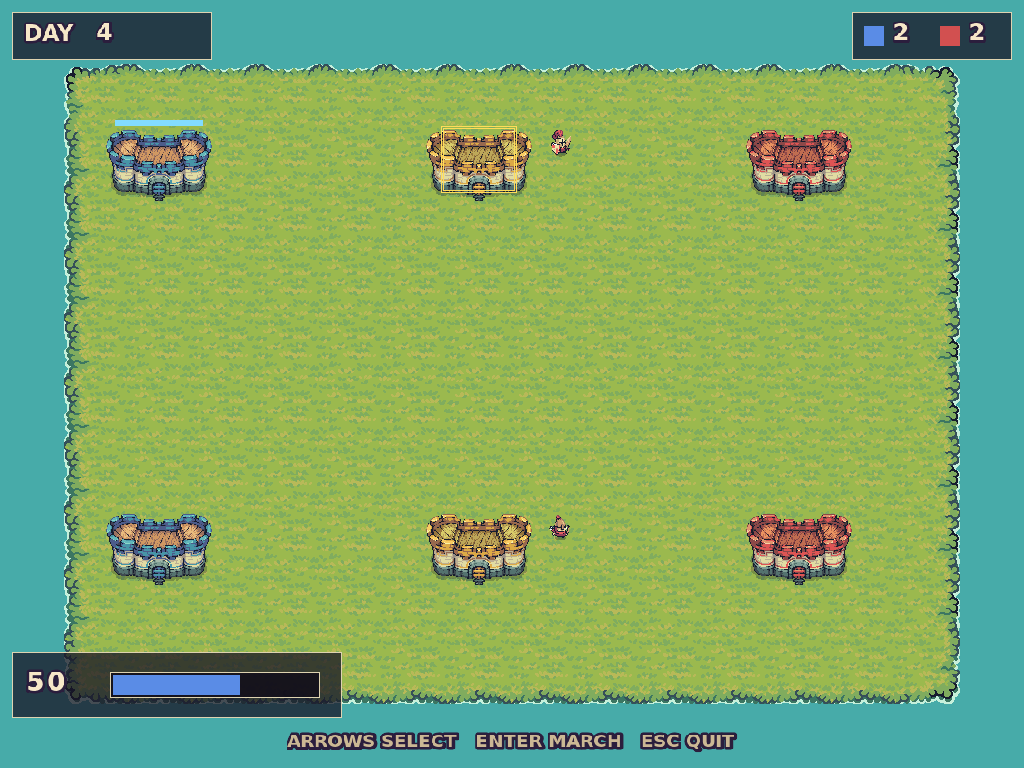
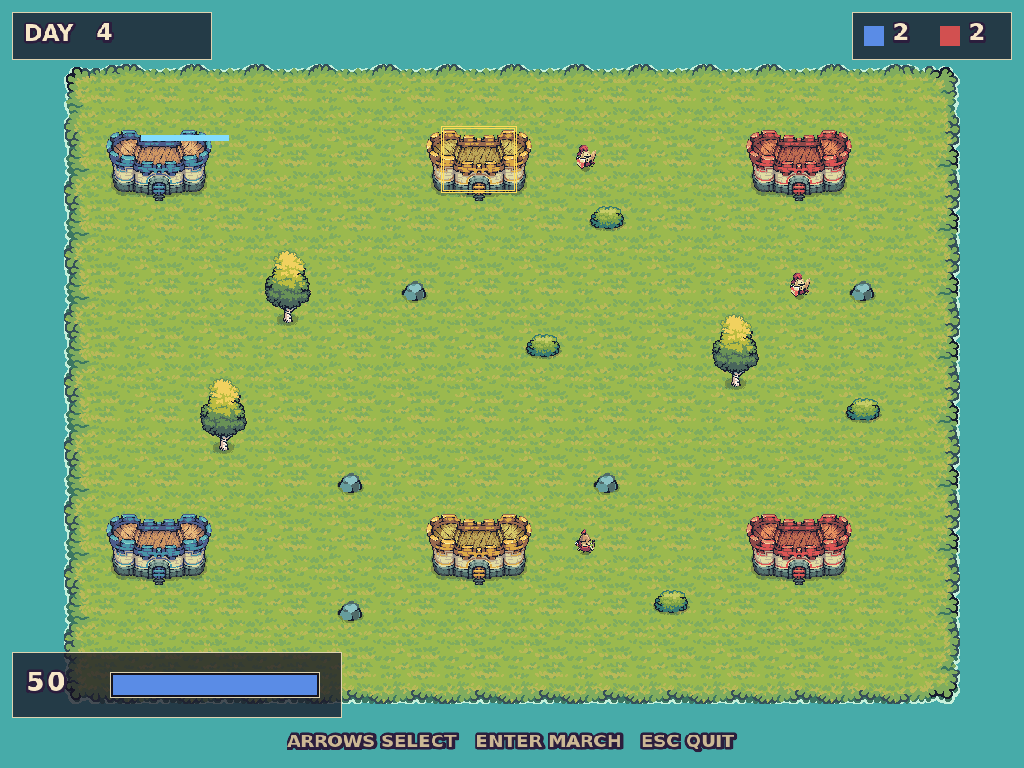
Scatter scenery across the strategy example's map
The campaign map was a flat green field. Adds trees, bushes and rocks from Tiny
Swords' decoration set, placed by SpawnDecorations at state entry.

Placement is a fixed-seed LCG rather than rand(), so the map is identical on
every run -- scenery that moves between runs makes a visual regression
impossible to spot in a screenshot. It is generated rather than authored as a
table so that moving a castle re-flows the scenery around it instead of leaving
a tree standing in the courtyard.

Three keep-out rules, because the first attempt looked like an orchard: a radius
around each castle centre, a radius around each road (the straight segments army
markers lerp along, so scenery never sits under a marching army), and a radius
between decorations themselves. Trees are capped at three -- they are by far the
loudest thing on an otherwise flat map, and left to the dice roughly a third of
sixteen decorations came up trees, all clustered in the one band the other
keep-outs left open.

The attempt loop is bounded rather than looping until the target count is met:
with every keep-out applied there may simply be no room left. It logs how many
it actually placed, which on the shipped map is 12 of 16 -- a silent shortfall
would read as "placed them all".

Draw order is now a named enum. RenderSystem sorts on zIndex and the sort is not
stable, so anything that can overlap needs its own layer: water, ground, scrub,
trees, castles, armies. Trees sit under the castles and the army markers so
[…]

diff --git a/examples/strategy/src/states/overworldState.cpp b/examples/strategy/src/states/overworldState.cpp
@@ -28,6 +28,39 @@ constexpr int   kCastleH     = 256;
 constexpr float kArmyScale = 0.30f;
 constexpr int   kUnitFrame = 192;
 
+// Draw order. Explicit constants rather than literals scattered through the
+// spawners: RenderSystem sorts on these, and two things sharing a zIndex sort
+// against each other unpredictably (the sort is not stable), so every layer
+// that can overlap another needs its own number.
+enum ZIndex {
+    kZWater  = 0,
+    kZGround = 1,
+    kZScrub  = 2,   // rocks and bushes, flat on the ground
+    kZTree   = 3,   // tall, but still under anything the player must see
+    kZCastle = 4,
+    kZArmy   = 5,
+};
+
+// Decoration keep-out. Nothing is placed within kClearCastle of a castle centre
+// or kClearRoad of a road, so scenery never sits under a castle sprite or under
+// a marching army -- the marker lerps straight between castle centres, so the
+// roads are exactly those segments.
+constexpr float kClearCastle = 116.0f;
+constexpr float kClearRoad   = 46.0f;
+constexpr float kClearDeco   = 92.0f;   // scenery to scenery
+
+// Distance from point p to segment ab. Used for the road keep-out.
+float DistanceToSegment(glm::vec2 p, glm::vec2 a, glm::vec2 b) {
+    const glm::vec2 ab = b - a;
+    const float len2 = ab.x * ab.x + ab.y * ab.y;
+    if (len2 <= 0.0001f) {
+        return glm::length(p - a);
+    }
+    float t = ((p.x - a.x) * ab.x + (p.y - a.y) * ab.y) / len2;
+    t = std::min(std::max(t, 0.0f), 1.0f);
+    return glm::length(p - (a + ab * t));
+}
+
 const char *CastleAsset(world::Owner o) {
     switch (o) {
     case world::Owner::Blue: return "castle_blue";
@@ -70,6 +103,7 @@ bool OverworldState::onEnter() {
     registry_.AddSystem<AnimationSystem>();
 
     SpawnTerrain();
+    SpawnDecorations();
     SpawnCastles();
 
     // Entity creation is deferred until Registry::Update(). Without this flush
@@ -109,7 +143,7 @@ void OverworldState::SpawnTerrain() {
             Entity water = registry_.CreateEntity();
             water.AddComponent<TransformComponent>(
                 glm::vec2(x * TILE, y * TILE), glm::vec2(1.0f, 1.0f), 0.0);
-            water.AddComponent<SpriteComponent>("water", 64, 64, /*zIndex=*/0,
+            water.AddComponent<SpriteComponent>("water", 64, 64, kZWater,
                                                 false, 0, 0);
         }
     }
@@ -120,10 +154,124 @@ void OverworldState::SpawnTerrain() {
             glm::vec2(tile.relativePosition.x * TILE,
                       tile.relativePosition.y * TILE),
             glm::vec2(1.0f, 1.0f), 0.0);
-        e.AddComponent<SpriteComponent>("tilemap", TILE, TILE, /*zIndex=*/1,
+        e.AddComponent<SpriteComponent>("tilemap", TILE, TILE, kZGround,
                                         false, tile.pixelSrcPosition.x,
                                         tile.pixelSrcPosition.y);
     }
+}
+
+// Scatters trees, bushes and rocks over the open ground.
+//
+// Deterministic on purpose. The placement comes from a fixed-seed LCG rather
+// than rand(), so the map looks the same on every run and in every screenshot;
+// a decoration that wanders between runs makes any visual regression
+// impossible to spot. It is also seeded here rather than authored as a table so
+// that moving a castle re-flows the scenery around it instead of leaving a tree
+// standing in the courtyard.
+void OverworldState::SpawnDecorations() {
+    struct Kind {
+        const char *asset;
+        int   frame;     // source frame size, square
+        int   frames;    // 1 = static
+        float scale;
+        int   zIndex;
+    };
+    // Tree3.png is 1536x192 (8 frames of 192), Bushe1.png is 1024x128 (8 frames
+    // of 128), Rock1.png is a single 64x64 tile.
+    static const Kind kKinds[] = {
+        {"tree", 192, 8, 0.52f, kZTree},
+        {"bush", 128, 8, 0.55f, kZScrub},
+        {"rock",  64, 1, 0.85f, kZScrub},
+    };
+
+    // Castle centres, and the road segments armies actually travel.
+    glm::vec2 centres[world::kCastleCount];
+    for (int i = 0; i < world::kCastleCount; ++i) {
+        centres[i] = CastlePixel(i) + glm::vec2(kCastleW * kCastleScale / 2.0f,
+                                                kCastleH * kCastleScale / 2.0f);
+    }
+
+    // Numerical Recipes' LCG constants; any decent pair would do. The seed is
+    // arbitrary but fixed.
+    Uint32 rng = 0x5eed1234u;
+    auto next = [&rng]() {
+        rng = rng * 1664525u + 1013904223u;
+        return rng >> 16;   // high bits: the low ones cycle far too regularly
+    };
+
+    int placed = 0;
+    int trees  = 0;
+    std::vector<glm::vec2> taken;
+
+    // Bounded attempts, not "loop until placed": with a full keep-out set there
+    // may simply be no room left, and a while-until-N loop would spin forever.
+    for (int attempt = 0; attempt < 400 && placed < DECO_COUNT; ++attempt) {
+        // Inside the coastline: the outer ring of land carries the shoreline
+        // tiles, and a tree half-off the beach reads as a mistake.
+        const int tx = 2 + static_cast<int>(next() % (MAP_W - 4));
+        const int ty = 2 + static_cast<int>(next() % (MAP_H - 4));
+        const glm::vec2 centre((tx + 0.5f) * TILE, (ty + 0.5f) * TILE);
+
+        bool blocked = false;
+        for (int i = 0; i < world::kCastleCount && !blocked; ++i) {
+            if (glm::length(centre - centres[i]) < kClearCastle) {
+                blocked = true;
+            }
+            for (int j = i + 1; j < world::kCastleCount && !blocked; ++j) {
+                if (campaign_->Adjacent(i, j) &&
+                    DistanceToSegment(centre, centres[i], centres[j]) <
+                        kClearRoad) {
+                    blocked = true;
+                }
+            }
+        }
+        // Keep scenery off other scenery. The keep-outs above leave only the
+        // band between the castle rows genuinely open, so without a spacing
+        // rule everything lands in the middle and reads as an orchard rather
+        // than as countryside.
+        for (const auto &t : taken) {
+            if (glm::length(centre - t) < kClearDeco) {
+                blocked = true;
+                break;
+            }
+        }
+        if (blocked) {
+            continue;
+        }
+
+        // Trees are the loudest thing on an otherwise flat map, so they are
+        // capped rather than left to the dice; past the cap this rolls scrub
+        // only. Index 0 is the tree, 1 and 2 are the bush and the rock.
+        const int pick = (trees >= MAX_TREES) ? 1 + static_cast<int>(next() % 2)
+                                              : static_cast<int>(next() % 3);
+        const Kind &k = kKinds[pick];
+        if (pick == 0) {
+            ++trees;
+        }
+        const float drawn = k.frame * k.scale;
+
+        Entity e = registry_.CreateEntity();
+        e.AddComponent<TransformComponent>(
+            centre - glm::vec2(drawn / 2.0f), glm::vec2(k.scale, k.scale), 0.0);
+        e.AddComponent<SpriteComponent>(k.asset, k.frame, k.frame, k.zIndex,
+                                        false, 0, 0);
+        if (k.frames > 1) {
+            e.AddComponent<AnimationComponent>(k.frames, 6, /*vertical=*/false,
+                                               /*isLooped=*/true);
+            // Stagger the phase. AnimationComponent stamps startTime in its
+            // constructor, so everything spawned in this one frame would
+            // otherwise sway in perfect unison, which reads as a glitch rather
+            // than as wind.
+            if (auto *anim = e.TryGetComponent<AnimationComponent>()) {
+                anim->startTime -= next() % 2000;
+            }
+        }
+        taken.push_back(centre);
+        ++placed;
+    }
+
+    logger_.Log("Scattered " + std::to_string(placed) + " decorations (" +
+                std::to_string(trees) + " trees)");
 }
 
 glm::vec2 OverworldState::CastlePixel(int castle) const {
@@ -139,7 +287,7 @@ void OverworldState::SpawnCastles() {
         e.AddComponent<TransformComponent>(
             CastlePixel(i), glm::vec2(kCastleScale, kCastleScale), 0.0);
         e.AddComponent<SpriteComponent>(CastleAsset(campaign_->castles[i].owner),
-                                        kCastleW, kCastleH, /*zIndex=*/2, false,
+                                        kCastleW, kCastleH, kZCastle, false,
                                         0, 0);
         castleEntities_[i] = e;
     }
@@ -199,7 +347,7 @@ void OverworldState::SyncArmyMarkers() {
                 GeneralPixel(i), glm::vec2(kArmyScale, kArmyScale), 0.0);
             e.AddComponent<SpriteComponent>(RunAsset(g.side, g.troop),
                                             kUnitFrame, kUnitFrame,
-                                            /*zIndex=*/3, false, 0, 0);
+                                            kZArmy, false, 0, 0);
             e.AddComponent<AnimationComponent>(RunFrames(g.troop), 10,
                                                /*vertical=*/false,
                                                /*isLooped=*/true);

diff --git a/examples/strategy/src/states/overworldState.h b/examples/strategy/src/states/overworldState.h
@@ -42,6 +42,8 @@ private:
     static constexpr int MAP_W     = 16;
     static constexpr int MAP_H     = 12;
     static constexpr int MARCH_DAYS = 3;
+    static constexpr int DECO_COUNT = 16;   // trees, bushes and rocks
+    static constexpr int MAX_TREES  = 3;    // trees dominate; keep them rare
     static constexpr Uint32 DAY_MS = 1400;   // one day per 1.4s
 
     // Most real time a single frame may contribute to the day timer. Without a
@@ -50,6 +52,7 @@ private:
     static constexpr Uint32 MAX_DELTA_MS = 100;
 
     void SpawnTerrain();
+    void SpawnDecorations();
     void SpawnCastles();
     void RefreshCastleSprite(int castle);
     void SyncArmyMarkers();

diff --git a/examples/strategy/src/game.cpp b/examples/strategy/src/game.cpp
@@ -71,6 +71,11 @@ bool Game::LoadAssets() {
         {"tilemap", "./assets/gfx/terrain/tilemap.png"},
         {"water",   "./assets/gfx/terrain/water.png"},
 
+        // Scenery. Tree and bush are animated strips; rock is a single tile.
+        {"tree", "./assets/gfx/deco/tree.png"},
+        {"bush", "./assets/gfx/deco/bush.png"},
+        {"rock", "./assets/gfx/deco/rock.png"},
+
         {"explosion", "./assets/gfx/fx/explosion.png"},
 
 

diff --git a/examples/strategy/README.md b/examples/strategy/README.md
@@ -73,6 +73,7 @@ strong but only for archers, and **retreat** concedes the castle immediately.
 | **Draw-time scaling** | `RenderSystem` computes `dstRect` as `sprite.width * transform.scale.x`, so a 192x192 frame at `scale 0.55` draws at ~106px. The PNGs are never resized. |
 | **One-shot animations must self-cull** | `AnimationSystem` clamps a non-looping animation to `numFrames - 1` and leaves the entity alone. Testing `currentFrame >= numFrames` therefore **never** fires; `battleState.cpp` tests `>= numFrames - 1` and kills the entity itself. Getting this wrong leaks an entity per hit for the whole battle. |
 | **Popping the last state** | An empty state machine is not an exit. `Game::Run` keeps looping on `isRunning_` while `processInput`/`update`/`render` all return immediately, so nothing calls `SDL_PollEvent` — the window stops responding and the process spins at 100% CPU, unkillable by anything short of `SIGKILL`. `BattleState` checks the stack depth before popping, which matters only for `./bin/realms battle`. |
+| **Deterministic scatter** | `SpawnDecorations` places scenery from a fixed-seed LCG, not `rand()`, so the map is identical on every run — decorations that wander make a visual regression impossible to spot. Keep-out radii around the castles and around the road segments (the straight lines army markers lerp along) mean moving a castle re-flows the scenery instead of leaving a tree in the courtyard. It logs how many it actually placed, which is usually fewer than asked for. |
 | **Hand-rolled AABB, again** | `CollisionSystem` is deliberately not registered. It kills *both* entities on contact, which is wrong for everything here. |
 | **Immediate-mode HUD** | `ui.h`. Bars are drawn as rects rather than blitted: Tiny Swords' `SmallBar_Base` is a three-slice asset with gaps inside one image, so stretching it as a single texture produces a broken bar. |
 

diff --git a/examples/strategy/assets/README.md b/examples/strategy/assets/README.md
@@ -27,7 +27,7 @@ artist gets the traffic — which is the right outcome for work this good.
    what the game loads; the paths on the left are where they sit in the
    download.
 
-This is the complete list — the game loads exactly these eleven files and
+This is the complete list — the game loads exactly these fourteen files and
 nothing else.
 
 ```
@@ -46,6 +46,10 @@ Buildings/Yellow Buildings/Castle.png        ->  gfx/buildings/neutral/Castle.pn
 
 Terrain/Tileset/Tilemap_color1.png           ->  gfx/terrain/tilemap.png
 Terrain/Tileset/Water Background color.png   ->  gfx/terrain/water.png
+
+Terrain/Resources/Wood/Trees/Tree3.png       ->  gfx/deco/tree.png
+Terrain/Decorations/Bushes/Bushe1.png        ->  gfx/deco/bush.png
+Terrain/Decorations/Rocks/Rock1.png          ->  gfx/deco/rock.png
 
 Particle FX/Explosion_01.png                 ->  gfx/fx/explosion.png
 ```
